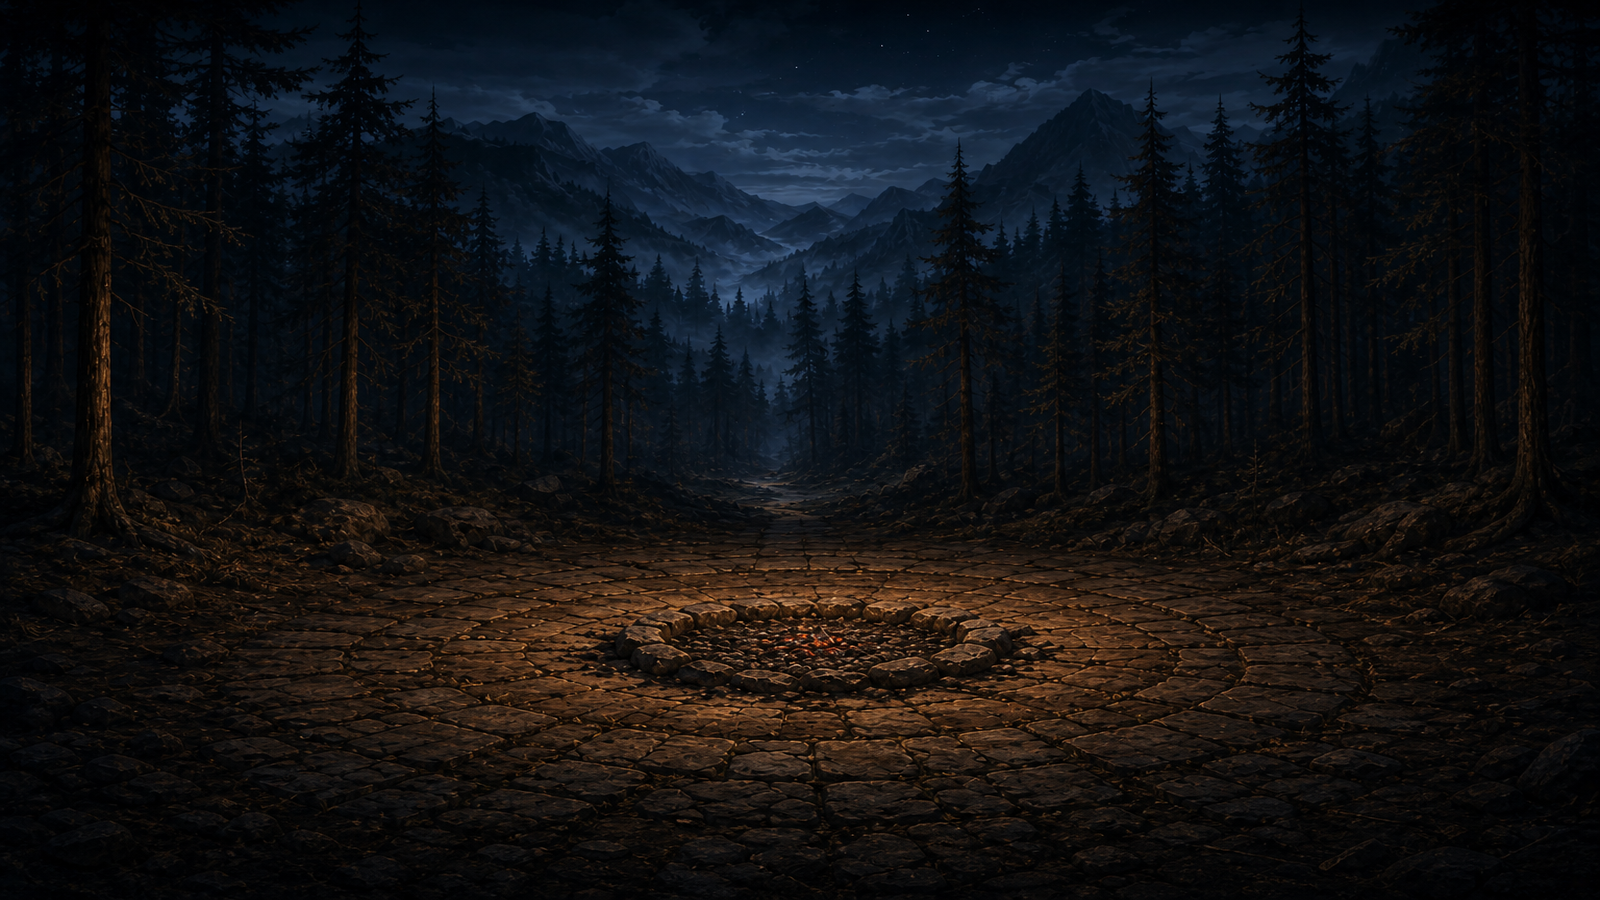
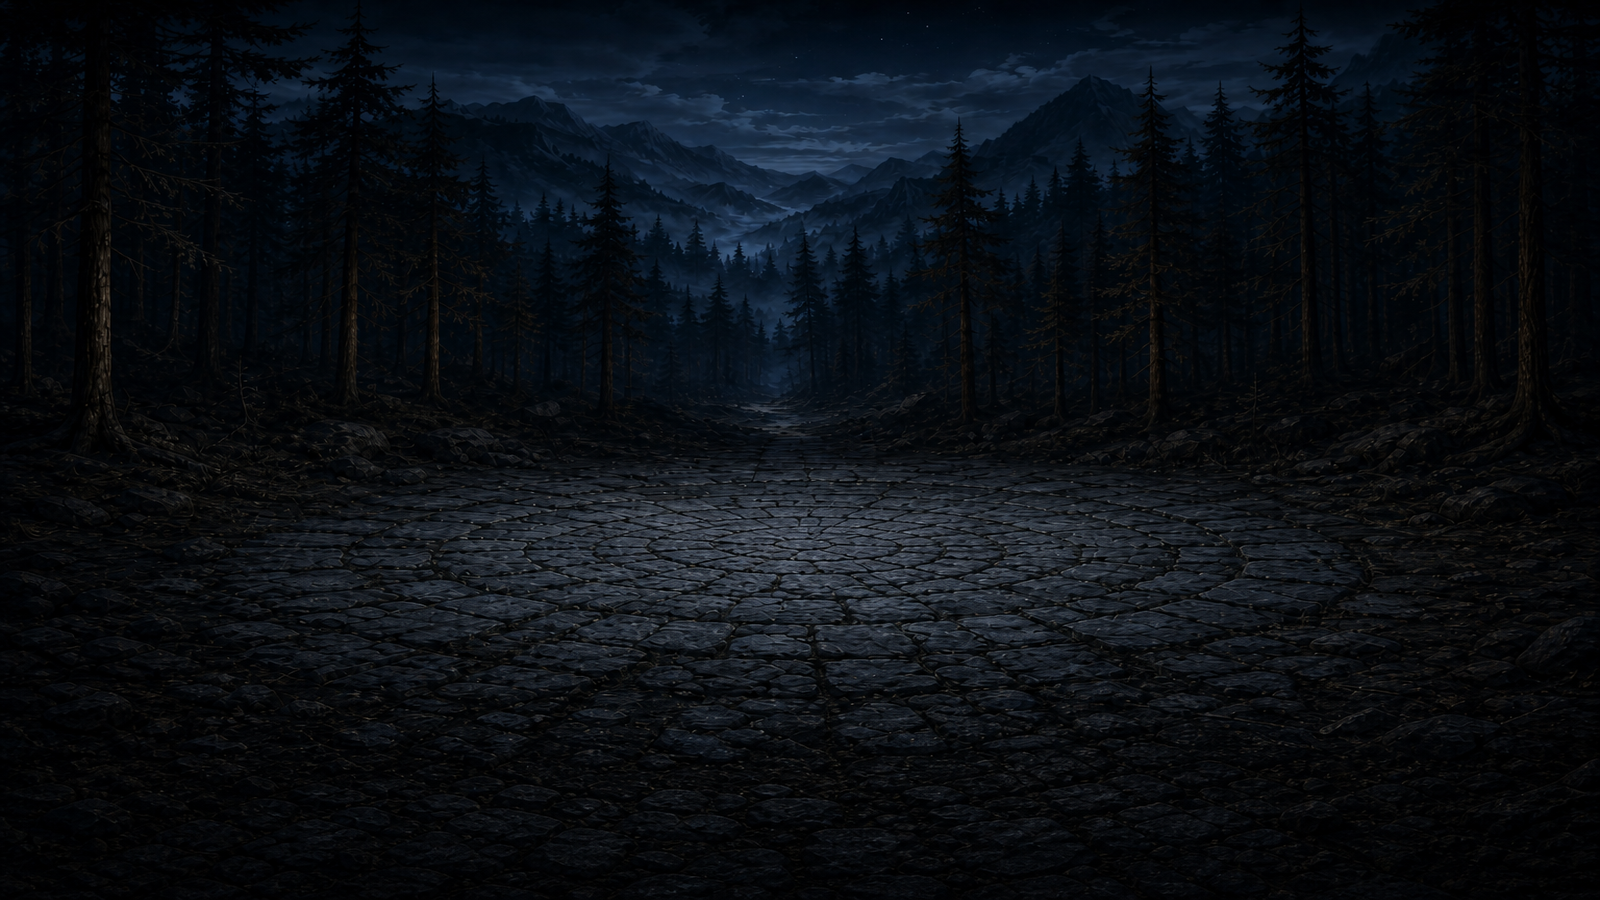
Polish menu and add random leveled encounters.
The painted fire pit was removed from the camp background so the
animated campfire (now slightly larger) owns that spot. The menu got
a generated stone-and-ember Delvers logo, a Settings button in place
of the placeholder, and matching hover/pressed styles on all buttons
(including Embark in camp). The party is now two heroes (melee +
ranged) who fight a random pack of 2-4 enemies; each enemy rolls a
level that scales its stats and shows in its name, e.g. Green Slime
Lv 2.

diff --git a/README.md b/README.md
@@ -49,6 +49,8 @@ Damage is rolled as `base_attack + random(skill.min_damage, skill.max_damage)`. 
 
 **Formations and targeting** — Each side has six named slots in two rows (front/back × top/center/bottom). Units fill their template's preferred row first (melee prefer front, archers prefer back), spreading from the center outwards. Melee attacks must target a random living front-row enemy while any remain; ranged attacks pick a random target from either row.
 
+**Encounters and enemy levels** — Each adventure rolls a random pack of 2–4 enemies. Every enemy rolls a level (mostly 1–2, occasionally 3) that scales its health and attack, with a little individual variance on top, and the level is shown in its name (e.g. *Green Slime Lv 2*).
+
 A key architectural choice is **separating simulation from presentation**:
 
 ```
